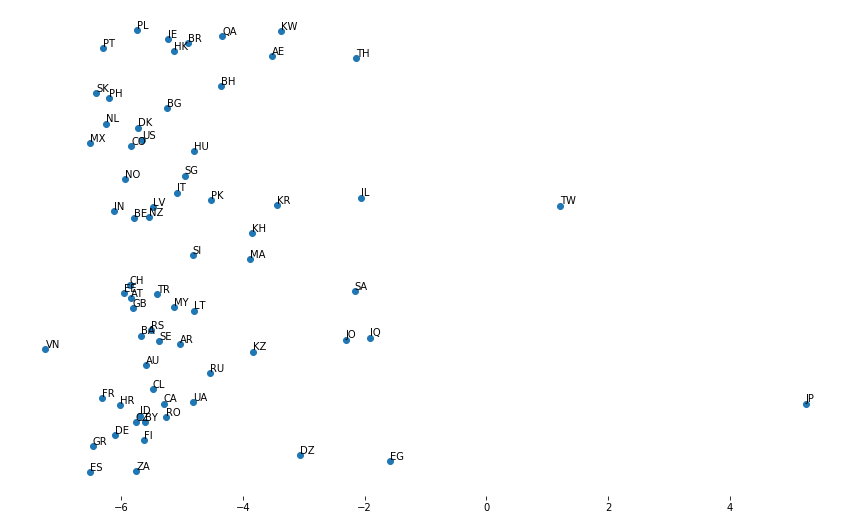
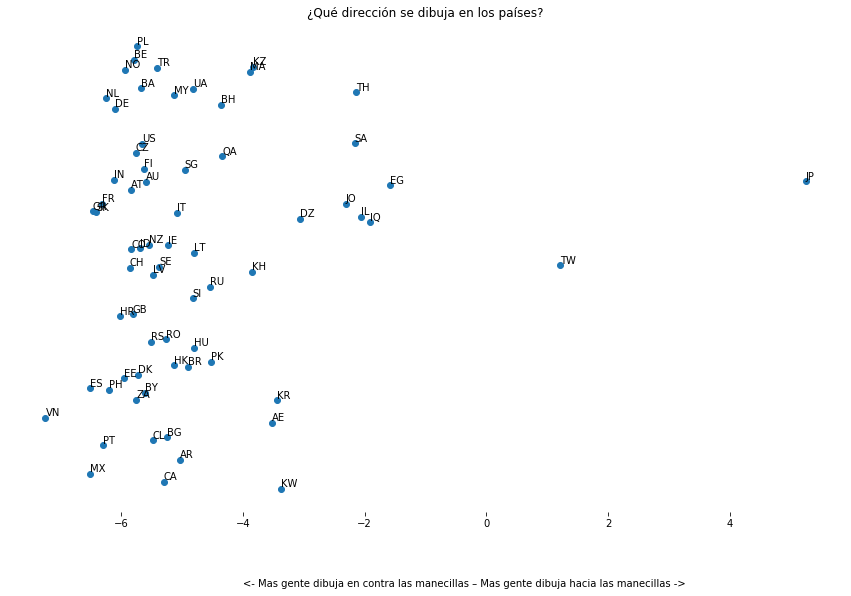
Add better images

diff --git a/posts/Circulos.md b/posts/Circulos.md
@@ -9,7 +9,16 @@ Alan<br />
 2020<br />
 
 <p>Dibuja un círculo, ya sea con la mano o en la mente, pero dibuja uno. ¿Listo?<br />
+<div class="bigcenterimgcontainer">
+<img src="Draw/pexels-drew-rae-580679.jpg" alt style>
+</div>
 ¿Hacia qué lado empezaste? ¿Sentido de las manecillas del reloj o en contra?<br /></p>
+<p>Si eres de América o Europa, lo mas probable es que fuera en contra las manecillas del reloj. Mientras en Japón lo mas seguro es que fuera en sentido de las manecillas.<br />
+¿Como podemos saber esto? En noviembre del 2016, Google lanzo Quick, Draw!. Quick, Draw! Es un juego el cual te pide dibujar una palabra en un tiempo determinado y una Inteligencia Artificial trata de adivinar. Se puede jugar [aquí]( https://quickdraw.withgoogle.com/).
+<br /></p>
+<p>Google lanzó al público más de 50 millones de dibujos, hechos por distintas personas que han jugado Quick Draw. Gracias a este set de imágenes podemos conocer como la gente dibuja, y encontrar distintas relaciones. Un ejemplo de esto son las imágenes de círculos.
+Gracias a<a href="https://www.element84.com/blog/determining-the-winding-of-a-polygon-given-as-a-set-of-ordered-points">Geometría</a> podemos saber que direccion se uso para dibujar el circulo.</p>
+<p>Al calcular la dirección del dibujo se genera un número. Si es negativo significa que se dibuja hacia la izquierda, y si es positivo se dibuja hacia la derecha. </p>
 <div style="display:flex; width: 50%">
      <div style="flex:1;padding-right:5px;">
           <img src="Draw/Circle.gif">
@@ -18,23 +27,12 @@ Alan<br />
           <img src="Draw/Cirsent.gif">
      </div>
 </div>
-<!-- <div class="centerimgcontainer" style="width: 200px;">
-<img src="Draw/Circle.gif" alt style>
-<img src="Draw/Cirsent.gif" alt style>
-</div> -->
-<p>Si eres de América o Europa, lo mas probable es que fuera en contra las manecillas del reloj. Mientras en Japón lo mas seguro es que fuera en sentido de las manecillas.<br />
-¿Como podemos saber esto? En noviembre del 2016, Google lanzo Quick, Draw!. Quick, Draw! Es un juego el cual te pide dibujar una palabra en un tiempo determinado y una Inteligencia Artificial trata de adivinar. Se puede jugar [aquí]( https://quickdraw.withgoogle.com/).
-<br /></p>
-<p>Google lanzó al público más de 50 millones de dibujos, hechos por distintas personas que han jugado Quick Draw. Gracias a este set de imágenes podemos conocer como la gente dibuja, y encontrar distintas relaciones. Un ejemplo de esto son las imágenes de círculos.
-Gracias a<a href="https://www.element84.com/blog/determining-the-winding-of-a-polygon-given-as-a-set-of-ordered-points">Geometría</a> podemos saber que direccion se uso para dibujar el circulo.</p>
-<p>En la siguiente grafica podemos ver la dirección de distintos países. Cuando es negativo el valor el circulo va en contra de las manecillas del reloj, cuando es positivo es lo contrario. </p>
+<p>Al juntar los dibujos por país, podemos ver en promedio hacia que lado se dibuja en distintos países. </p>
 <div class="bigcenterimgcontainer">
 <img src="Draw/countries.png" alt style>
 </div>
 
-<p>Vemos que México es de los países mas negativos es decir la mayoría de la gente dibuja círculos hacia la izquierda.  Mientras tanto, tenemos 2 lugares que dibujan círculos hacia la derecha, estos son Taiwán y Japón.<br />
-
-¿Porque es esto? </p>
+<p>Vemos que México es de los países mas negativos es decir la mayoría de la gente dibuja círculos hacia la izquierda.  Mientras tanto, tenemos 2 lugares que dibujan círculos hacia la derecha, estos son Taiwán y Japón.</p>
 
 
 <!-- <p>Recently, there’s been a great deal of excitement and interest in deep neural networks because they’ve achieved breakthrough results in areas such as computer vision.<a href="#fn1" class="footnoteRef" id="fnref1"><sup>1</sup></a></p>
